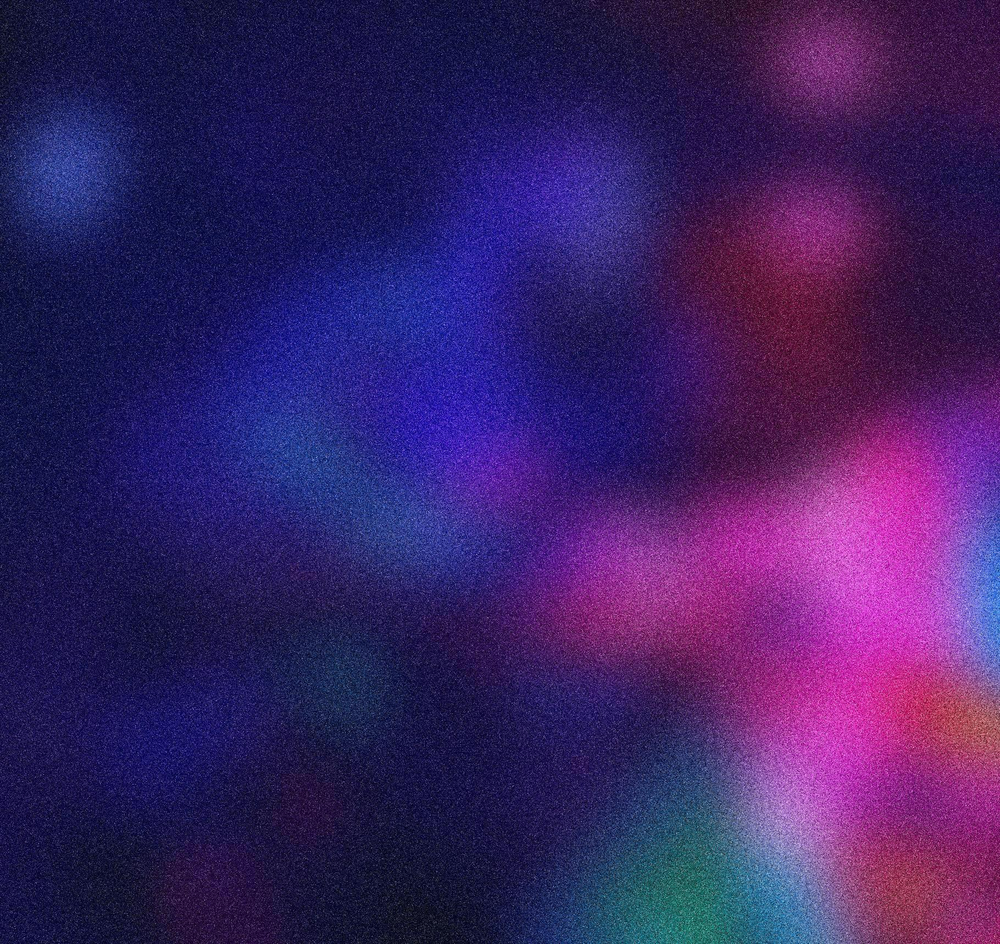
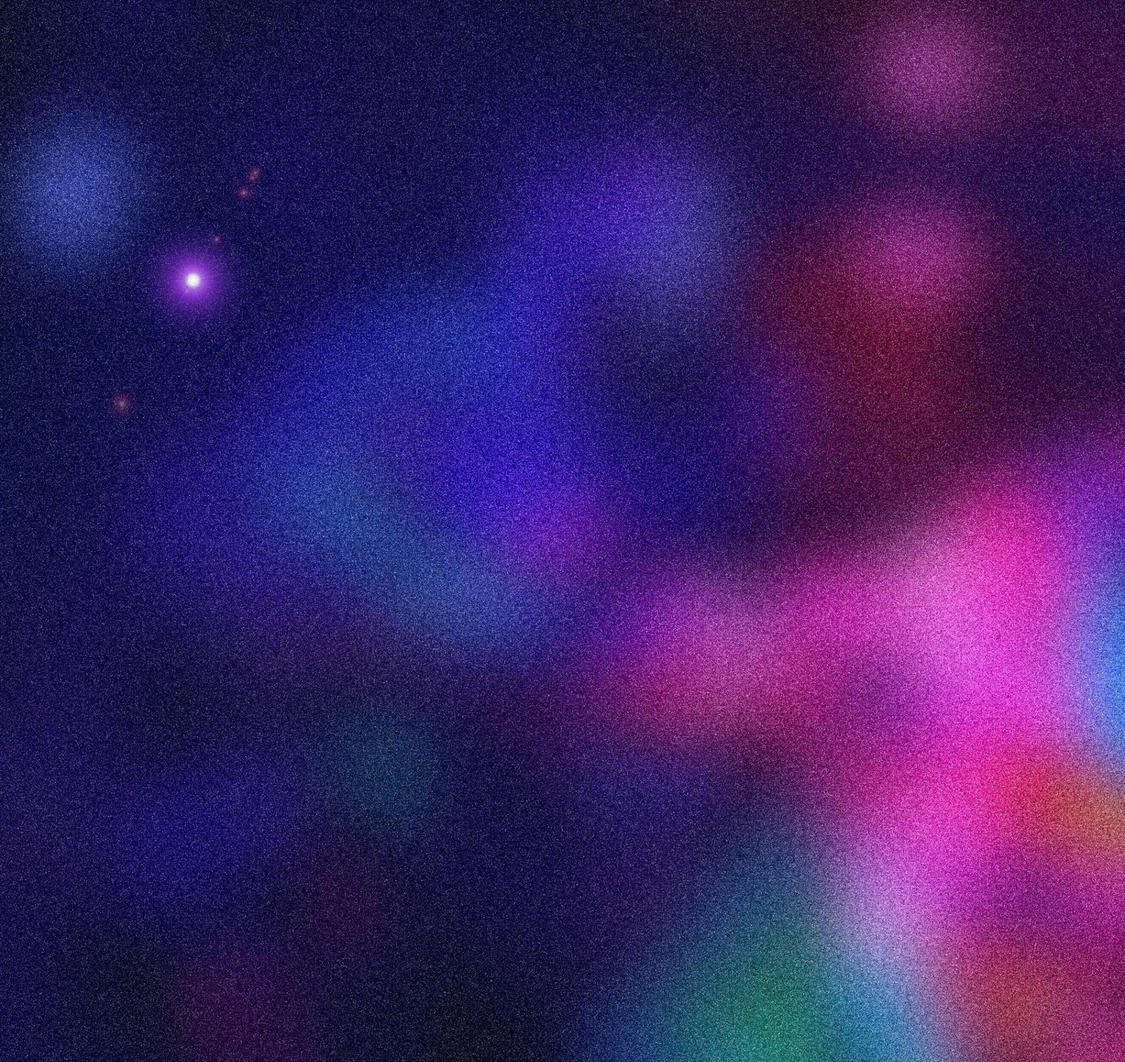
fixed background

diff --git a/index.html b/index.html
@@ -74,10 +74,10 @@
 </head>
 <body>
     
-    <!-- Header-->
+    <!-- Header -->
     <img onclick="play_pause('header')" id="header" src="assets/webtitle-default.png">
 
-    <!-- Buttons-->
+    <!-- Buttons -->
     <div id="button-block">
         <a href="https://open.spotify.com/artist/4k5xNc8dLAWJemHQv9Wmc1" class="buttons"><img id="spotify" src="assets/buttons/spotify.png"></a>
         <a href="https://music.apple.com/us/artist/andrew-cornish/1588451912" class="buttons"><img id="apple" src="assets/buttons/apple.png"></a>
@@ -85,6 +85,7 @@
         <a href="https://andrewcornishmusic.bandcamp.com/" class="buttons"><img id="bandcamp" src="assets/buttons/bandcamp.png"></a>
     </div>
 
+    <!-- Icons -->
     <div id="icon-block">
         <a class="icons-link" id="website-link" href="https://andrewcornishmusiccom.wordpress.com/"><img class="icons-img" id="website" onmouseenter="icon_fade('website', true)" onmouseleave="icon_fade('website', false)" src="assets/icons/website.png"></a>
         <a class="icons-link" id="email-link" href="mailto:music@andrewcornish.me"><img id="email" onmouseenter="icon_fade('email', true)" onmouseleave="icon_fade('email', false)" class="icons-img" src="assets/icons/email.png"></a>
@@ -100,7 +101,6 @@
 <style>
     body {
         background: url("assets/background.jpg");
-        background-size: 150%;
         background-position: center;
         color: #fff;
         font-family: monospace;
